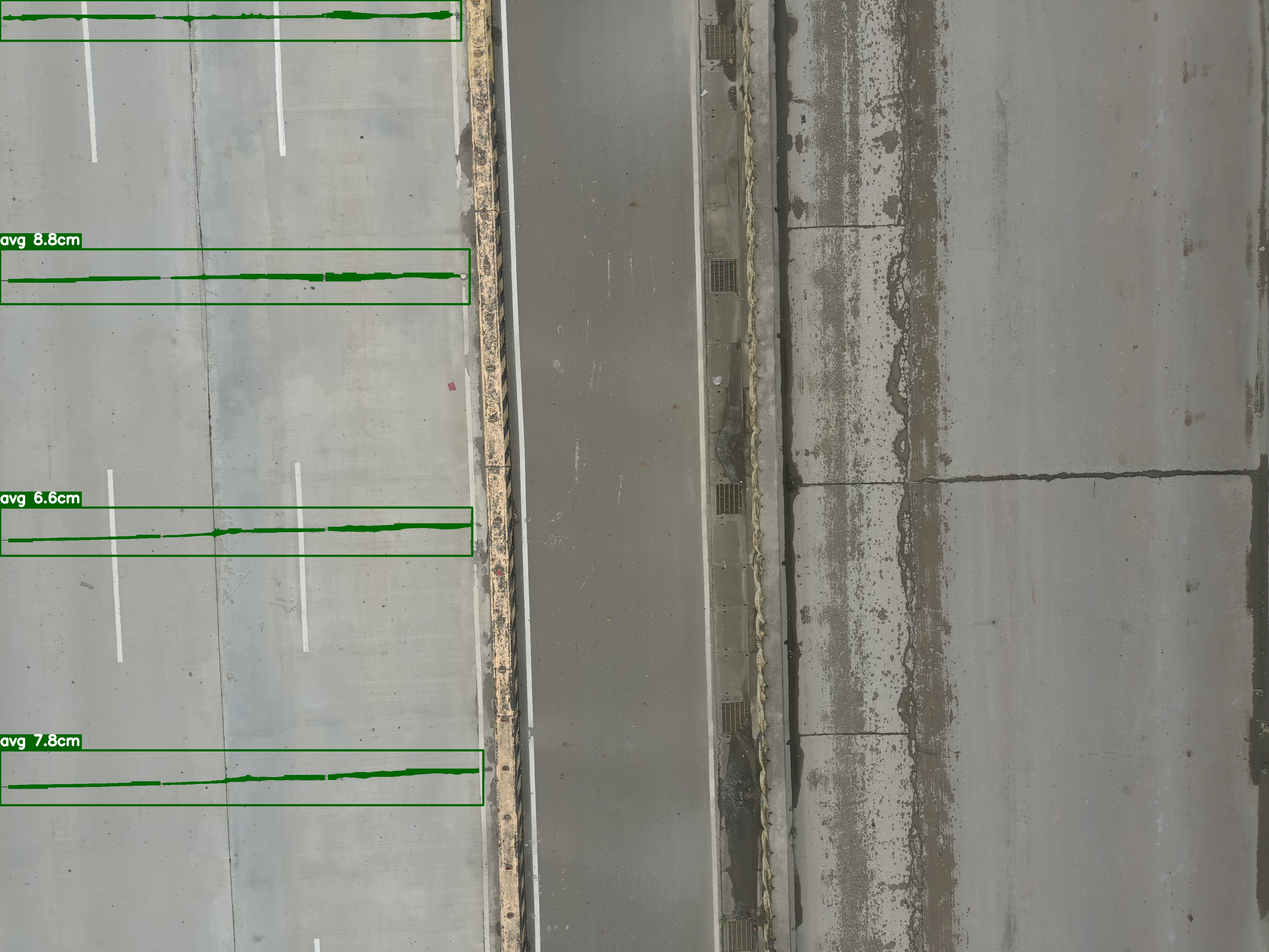
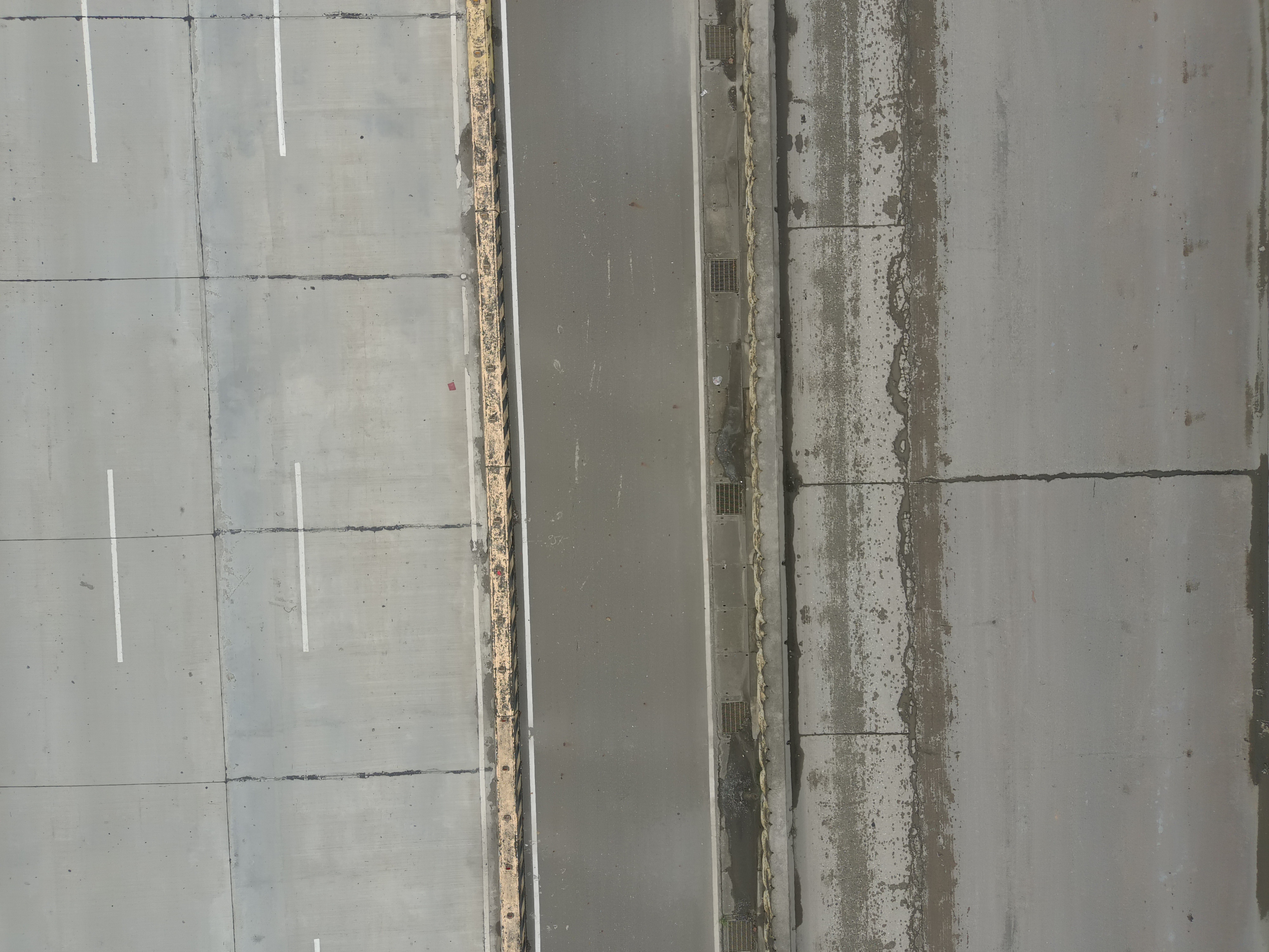
add info

diff --git a/utils/segmentation.py b/utils/segmentation.py
@@ -2,10 +2,11 @@ import numpy as np
 import cv2
 from skimage.morphology import skeletonize
 
-
-
-def process_patches(orig_img, merged_boxes, scale_x, scale_y, seg_model):
+def process_patches(orig_img, merged_boxes, scale_x, scale_y, seg_model, img_name="image"):
     H, W = orig_img.shape[:2]
+    total_count = 0
+    normal_count = 0
+    abnormal_count = 0
 
     for (x1, y1, x2, y2) in merged_boxes:
         x1_orig = int(x1 * scale_x)
@@ -42,7 +43,6 @@ def process_patches(orig_img, merged_boxes, scale_x, scale_y, seg_model):
                     oy2 = min(oy1 + h_, H)
                     ox2 = min(ox1 + w_, W)
                     indiv_mask[oy1:oy2, ox1:ox2][mask_area] = 255
-                    # orig_img[indiv_mask == 255] = [0, 255, 0]
         else:
             canvas = np.zeros((512, 512, 3), dtype=np.uint8)
             y_off = (512 - patch_h) // 2
@@ -58,7 +58,6 @@ def process_patches(orig_img, merged_boxes, scale_x, scale_y, seg_model):
             seg_crop = mask[y_off:y_off+patch_h, x_off:x_off+patch_w]
             mask_area = seg_crop > 0
             indiv_mask[y1_orig:y2_orig, x1_orig:x2_orig][mask_area] = 255
-            # orig_img[indiv_mask == 255] = [0, 255, 0]
 
         # ===== 統計寬度資訊 =====
         if np.any(indiv_mask):
@@ -72,56 +71,30 @@ def process_patches(orig_img, merged_boxes, scale_x, scale_y, seg_model):
 
             if widths:
                 widths = np.array(widths)
-
-                # 初始統計（用來判斷是否 overflow）
                 mean_width = np.mean(widths)
                 max_width = np.max(widths)
                 avg_width_cm = mean_width * 0.67
                 max_width_cm = max_width * 0.67
 
-                # ==== 判斷顏色與標籤內容 ====
+                # 判斷是否 overflow
                 if max_width_cm > 40:
-                    # Overflow → 不進行過濾，直接使用原始統計值
                     label = "Overflow"
-                    rect_color = (0, 0, 0)  # 黑色
+                    # rect_color = (0, 0, 0)  # 黑色
                 else:
-                    # 僅在非 Overflow 時，去除偏高離群值
                     std_width = np.std(widths)
                     upper_bound = mean_width + std_width
                     filtered_widths = widths[widths <= upper_bound]
-
                     if len(filtered_widths) > 0:
                         avg_width_cm = np.mean(filtered_widths) * 0.67
                         max_width_cm = np.max(filtered_widths) * 0.67
-                    # 若全被濾掉就維持原統計值
 
-                    if avg_width_cm > 10:
-                        rect_color = (0, 0, 255)  # 紅色
-                    else:
-                        rect_color = (0, 100, 0)  # 綠色
-                    
-                    label = f"avg {avg_width_cm:.1f}cm"
-                    # label = f"avg {avg_width_cm:.1f}cm, max {max_width_cm:.1f}cm"
+                # 統計結果
+                total_count += 1
+                if avg_width_cm > 10:
+                    abnormal_count += 1
+                else:
+                    normal_count += 1
+        # 若無裂縫，則不計數
 
-                    
-                orig_img[indiv_mask == 255] = rect_color
-
-                # ===== 畫框與標籤 =====
-                font = cv2.FONT_HERSHEY_SIMPLEX
-                font_scale = 1.5
-                thickness = 5
-                (text_width, text_height), baseline = cv2.getTextSize(label, font, font_scale, thickness)
-                cv2.rectangle(orig_img, (x1_orig, y1_orig), (x2_orig, y2_orig), rect_color, thickness)
-                cv2.rectangle(orig_img,
-                              (x1_orig, y1_orig - text_height - baseline),
-                              (x1_orig + text_width, y1_orig),
-                              rect_color, thickness=cv2.FILLED)
-                cv2.putText(orig_img, label,
-                            (x1_orig, y1_orig - baseline),
-                            font, font_scale, (255, 255, 255), thickness, lineType=cv2.LINE_AA)
-
-
-
-        # 若無裂縫，則不畫框與標籤
-
+    print(f"[INFO] image_name: {img_name}, total: {total_count}, normal: {normal_count}, abnormal: {abnormal_count}")
     return orig_img

diff --git a/main.py b/main.py
@@ -36,6 +36,7 @@ seg_model = YOLO(seg_model_path)
 image_paths = []
 for ext in ["*.jpg", "*.JPG", "*.png"]:
     image_paths.extend(glob.glob(os.path.join(origin_folder, ext)))
+image_paths = list(set(image_paths))  
 image_paths.sort()
 
 for img_path in tqdm(image_paths, desc="處理所有圖片"):
@@ -46,14 +47,14 @@ for img_path in tqdm(image_paths, desc="處理所有圖片"):
 
     H, W = orig_img.shape[:2]
     merged_boxes, scale_x, scale_y = detect_and_merge_boxes(detect_model, orig_img, resize_dim, eps=eps, min_samples=min_samples)
-
+    base_name = os.path.splitext(os.path.basename(img_path))[0]
     if not merged_boxes:
         print(f"⚠ 無偵測結果: {img_path}")
         result_img = orig_img
     else:
-        result_img = process_patches(orig_img, merged_boxes, scale_x, scale_y, seg_model)
+        result_img = process_patches(orig_img, merged_boxes, scale_x, scale_y, seg_model, img_name=base_name)
 
-    base_name = os.path.splitext(os.path.basename(img_path))[0]
+    
     save_path = os.path.join(output_folder, f"{base_name}.jpg")
     save_image(result_img, save_path)
 
